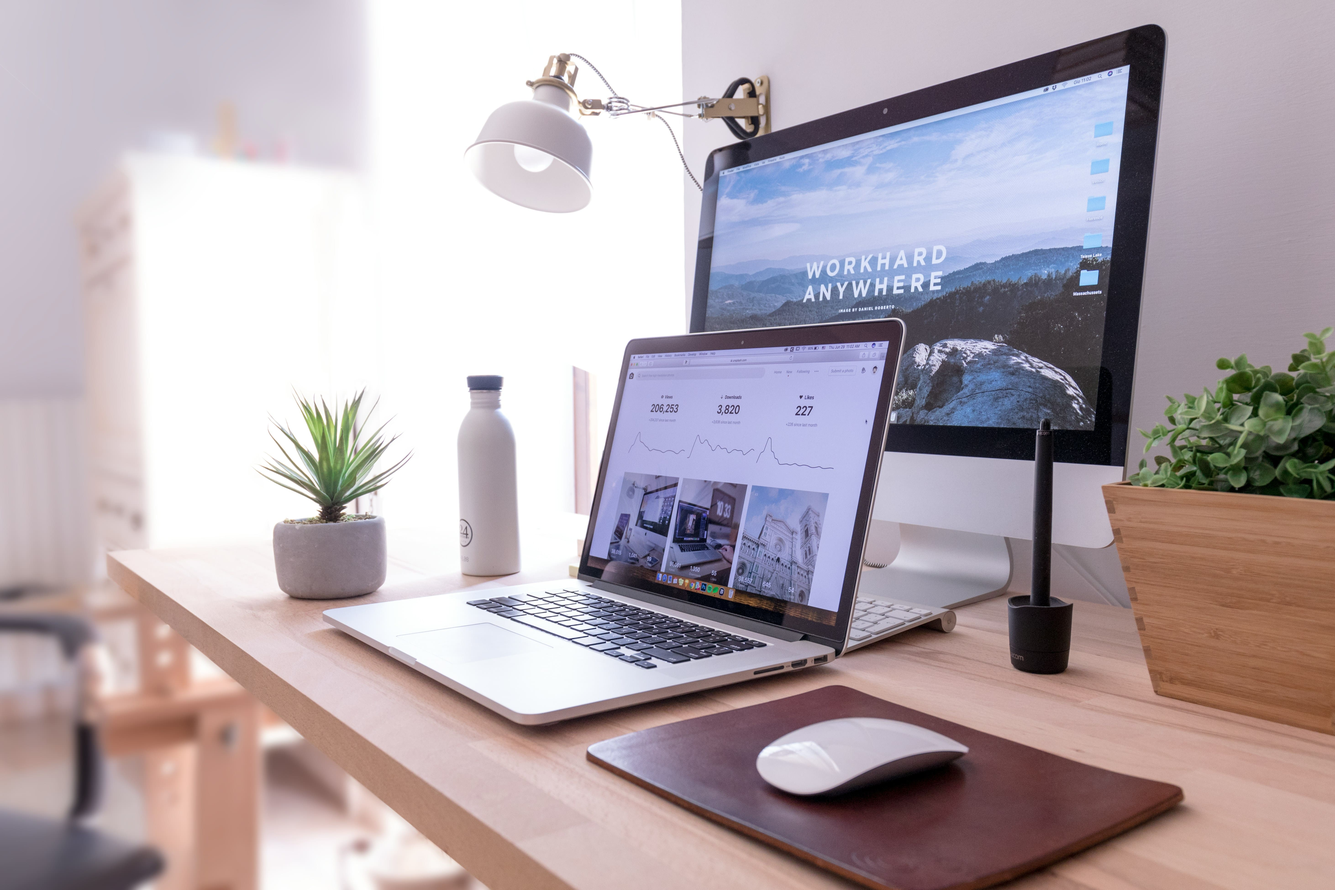
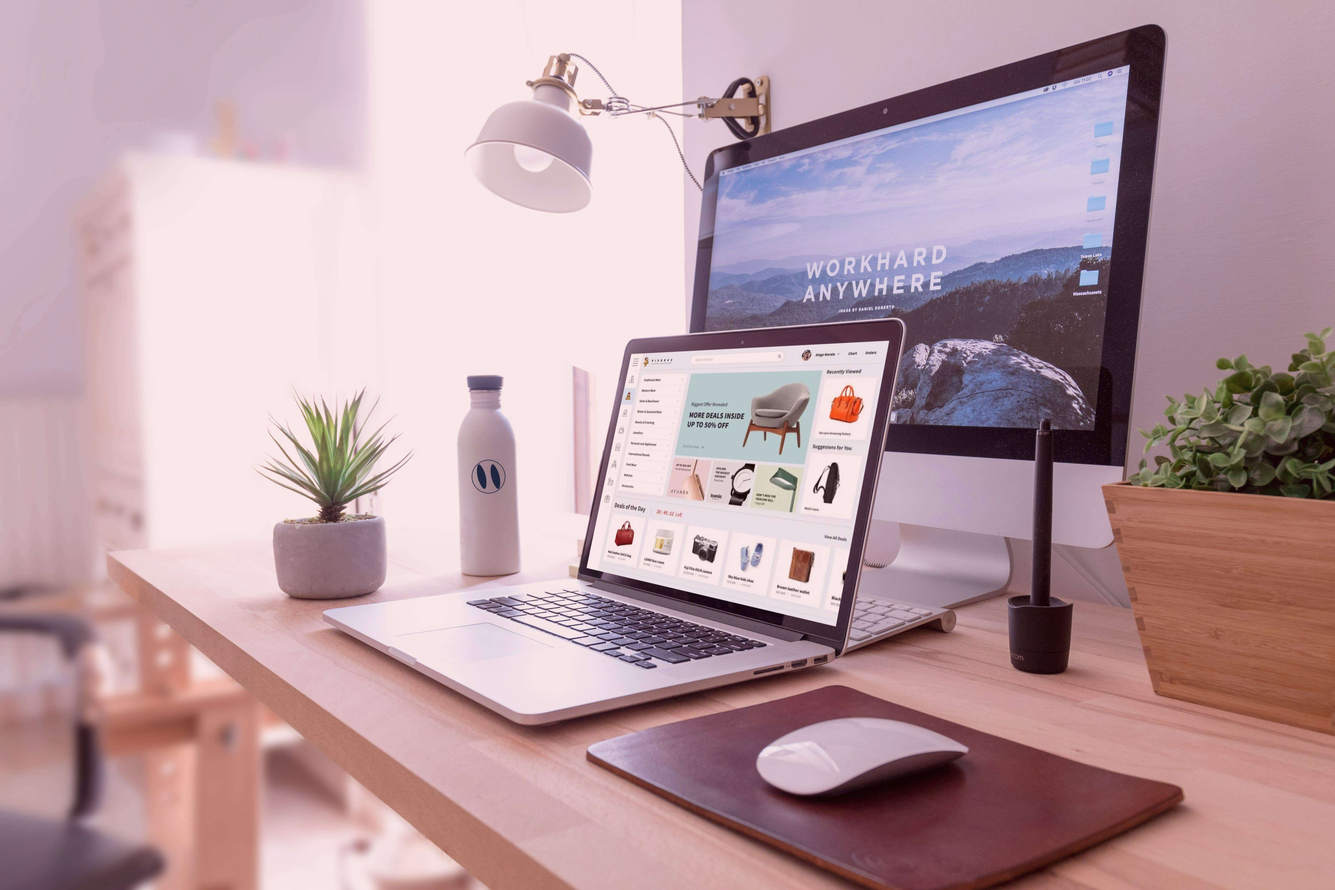
refine copy to fit ecommerce

diff --git a/index.html b/index.html
@@ -145,14 +145,16 @@
                 </span>
               </h3>
               <h2 class="h2 hero-title">
-                <span class="has-before"> Des Sites Web </span> qui Boostent
-                Votre Business
+                Des <span class="has-before">Sites E-commerce </span> Qui
+                Boostent Votre Business
               </h2>
 
               <p class="hero-text">
-                Boostez votre présence en ligne avec nos solutions web. <br />
-                Nos sites web personnalisés et designs soigné renforcent votre
-                visibilité et simplifient vos ventes.
+                Créez et optimisez votre boutique en ligne avec un site
+                sur-mesure, conçu pour augmenter vos ventes et renforcer votre
+                présence digitale. <br />
+                Des solutions adaptées à vos besoins, que vous débutiez ou que
+                vous soyez en pleine croissance.
               </p>
 
               <div class="wrapper">
@@ -366,14 +368,31 @@
                   </div>
 
                   <h3 class="h3">
-                    <a href="#" class="card-title"
-                      >Développement de Solutions E-commerce
+                    <a href="#services" class="card-title"
+                      >Boutique E-commerce
                     </a>
                   </h3>
-                  <h5>
-                    boutiques en ligne modernes, simples à gérer et optimisées
-                    pour la conversion
-                  </h5>
+                  <h5>Un site complet pour vendre vos produits en ligne :</h5>
+                  <ul>
+                    <li>
+                      <h5>
+                        - Design sur-mesure ou thème adapté à vos objectifs et
+                        budget
+                      </h5>
+                    </li>
+                    <li>
+                      <h5>
+                        - Mise en place de votre catalogue, gestion des stocks,
+                        livraisons et paiements
+                      </h5>
+                    </li>
+                    <li>
+                      <h5>
+                        - Développement de nouvelles fonctionnalités et modules
+                        sur demande
+                      </h5>
+                    </li>
+                  </ul>
                 </div>
               </li>
 
@@ -391,9 +410,31 @@
                   </div>
 
                   <h3 class="h3">
-                    <a href="#" class="card-title">Intégration des Modules</a>
+                    <a href="#services" class="card-title"
+                      >Site Vitrine / Catalogue Produits</a
+                    >
                   </h3>
-                  <h5>systèmes de réservation, blog, formulaires avancés…</h5>
+                  <h5>
+                    Présentez vos produits, services ou références de manière
+                    claire et professionnelle :
+                  </h5>
+                  <ul>
+                    <li>
+                      <h5>
+                        - Thème rapide à mettre en place ou développement
+                        sur-mesure
+                      </h5>
+                    </li>
+                    <li>
+                      <h5>
+                        - Fonctionnalités supplémentaires (ex. demande de devis)
+                        intégrables sur demande
+                      </h5>
+                    </li>
+                    <li>
+                      <h5>- Idéal pour les professionnels du B2B</h5>
+                    </li>
+                  </ul>
                 </div>
               </li>
 
@@ -411,14 +452,30 @@
                   </div>
 
                   <h3 class="h3">
-                    <a href="#" class="card-title"
-                      >Conception de Sites Vitrine
+                    <a href="#services" class="card-title"
+                      >Logiciel POS (Point de Vente)
                     </a>
                   </h3>
                   <h5>
-                    présentez votre activité de manière claire et impactante,
-                    avec un site rapide et responsive.
+                    Gérez vos ventes physiques simplement grâce à une interface
+                    connectée à votre boutique :
                   </h5>
+                  <ul>
+                    <li>
+                      <h5>
+                        - Solution logicielle basique pour gérer produits,
+                        stocks et reçus
+                      </h5>
+                    </li>
+                    <li>
+                      <h5>- Intégration possible avec votre boutique online</h5>
+                    </li>
+                    <li>
+                      <h5>
+                        - Formation de base pour la prise en main du système
+                      </h5>
+                    </li>
+                  </ul>
                 </div>
               </li>
             </ul>
@@ -438,7 +495,7 @@
                   </div>
 
                   <h3 class="h3">
-                    <a href="#" class="card-title">Hébergement</a>
+                    <a href="#services" class="card-title">Hébergement</a>
                   </h3>
                 </div>
               </li>
@@ -457,7 +514,7 @@
                   </div>
 
                   <h3 class="h3">
-                    <a href="#" class="card-title">
+                    <a href="#services" class="card-title">
                       Mises à jour hebdomadaires</a
                     >
                   </h3>
@@ -477,7 +534,9 @@
                   </div>
 
                   <h3 class="h3">
-                    <a href="#" class="card-title"> Restauration rapide </a>
+                    <a href="#services" class="card-title">
+                      Restauration rapide
+                    </a>
                   </h3>
                   <h5>en cas de problème ou de piratage</h5>
                 </div>
@@ -498,8 +557,8 @@
                   </div>
 
                   <h3 class="h3">
-                    <a href="#" class="card-title"
-                      >Pages de vente & landing pages
+                    <a href="#services" class="card-title"
+                      >Optimisation du Taux de Conversion (CRO)
                     </a>
                   </h3>
                 </div>
@@ -519,11 +578,10 @@
                   </div>
 
                   <h3 class="h3">
-                    <a href="#" class="card-title"
+                    <a href="#services" class="card-title"
                       >Campagnes d’e-mail marketing
                     </a>
                   </h3>
-                  <h5>ciblées</h5>
                 </div>
               </li>
 
@@ -541,9 +599,8 @@
                   </div>
 
                   <h3 class="h3">
-                    <a href="#" class="card-title">Articles de blog SEO </a>
+                    <a href="#services" class="card-title">Optimisation SEO </a>
                   </h3>
-                  <h5>pour booster votre visibilité</h5>
                 </div>
               </li>
             </ul>
